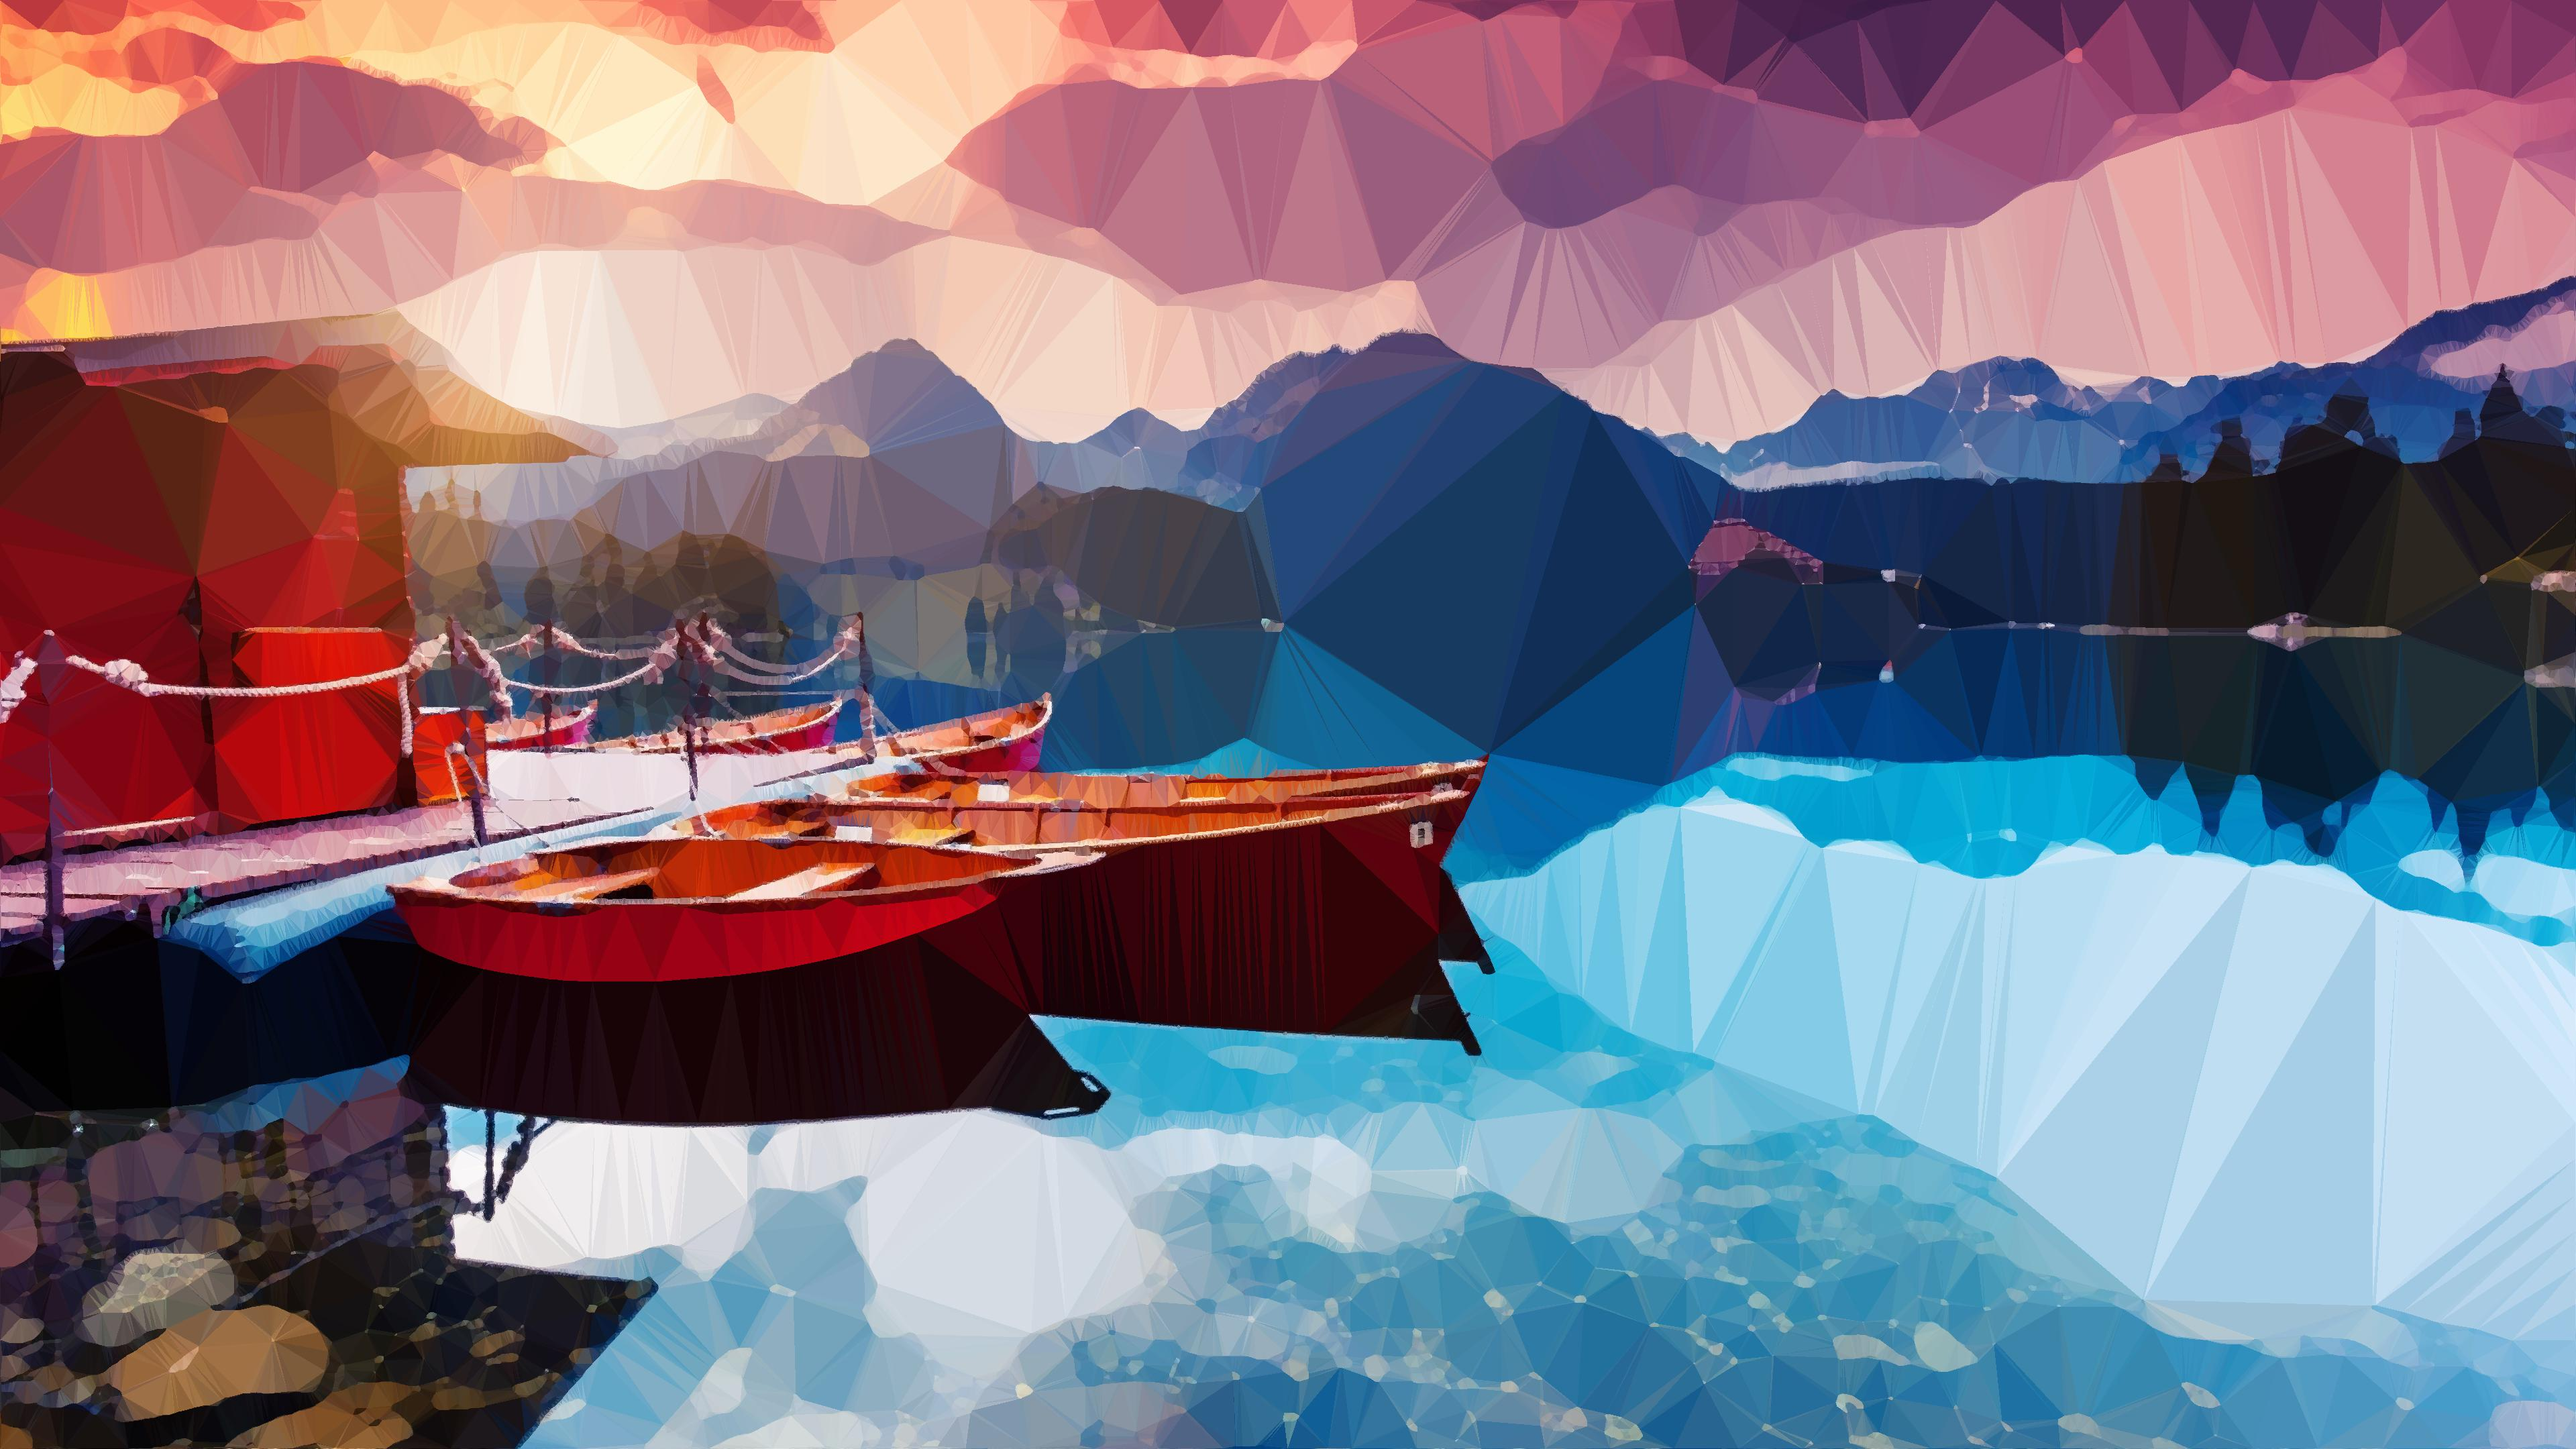
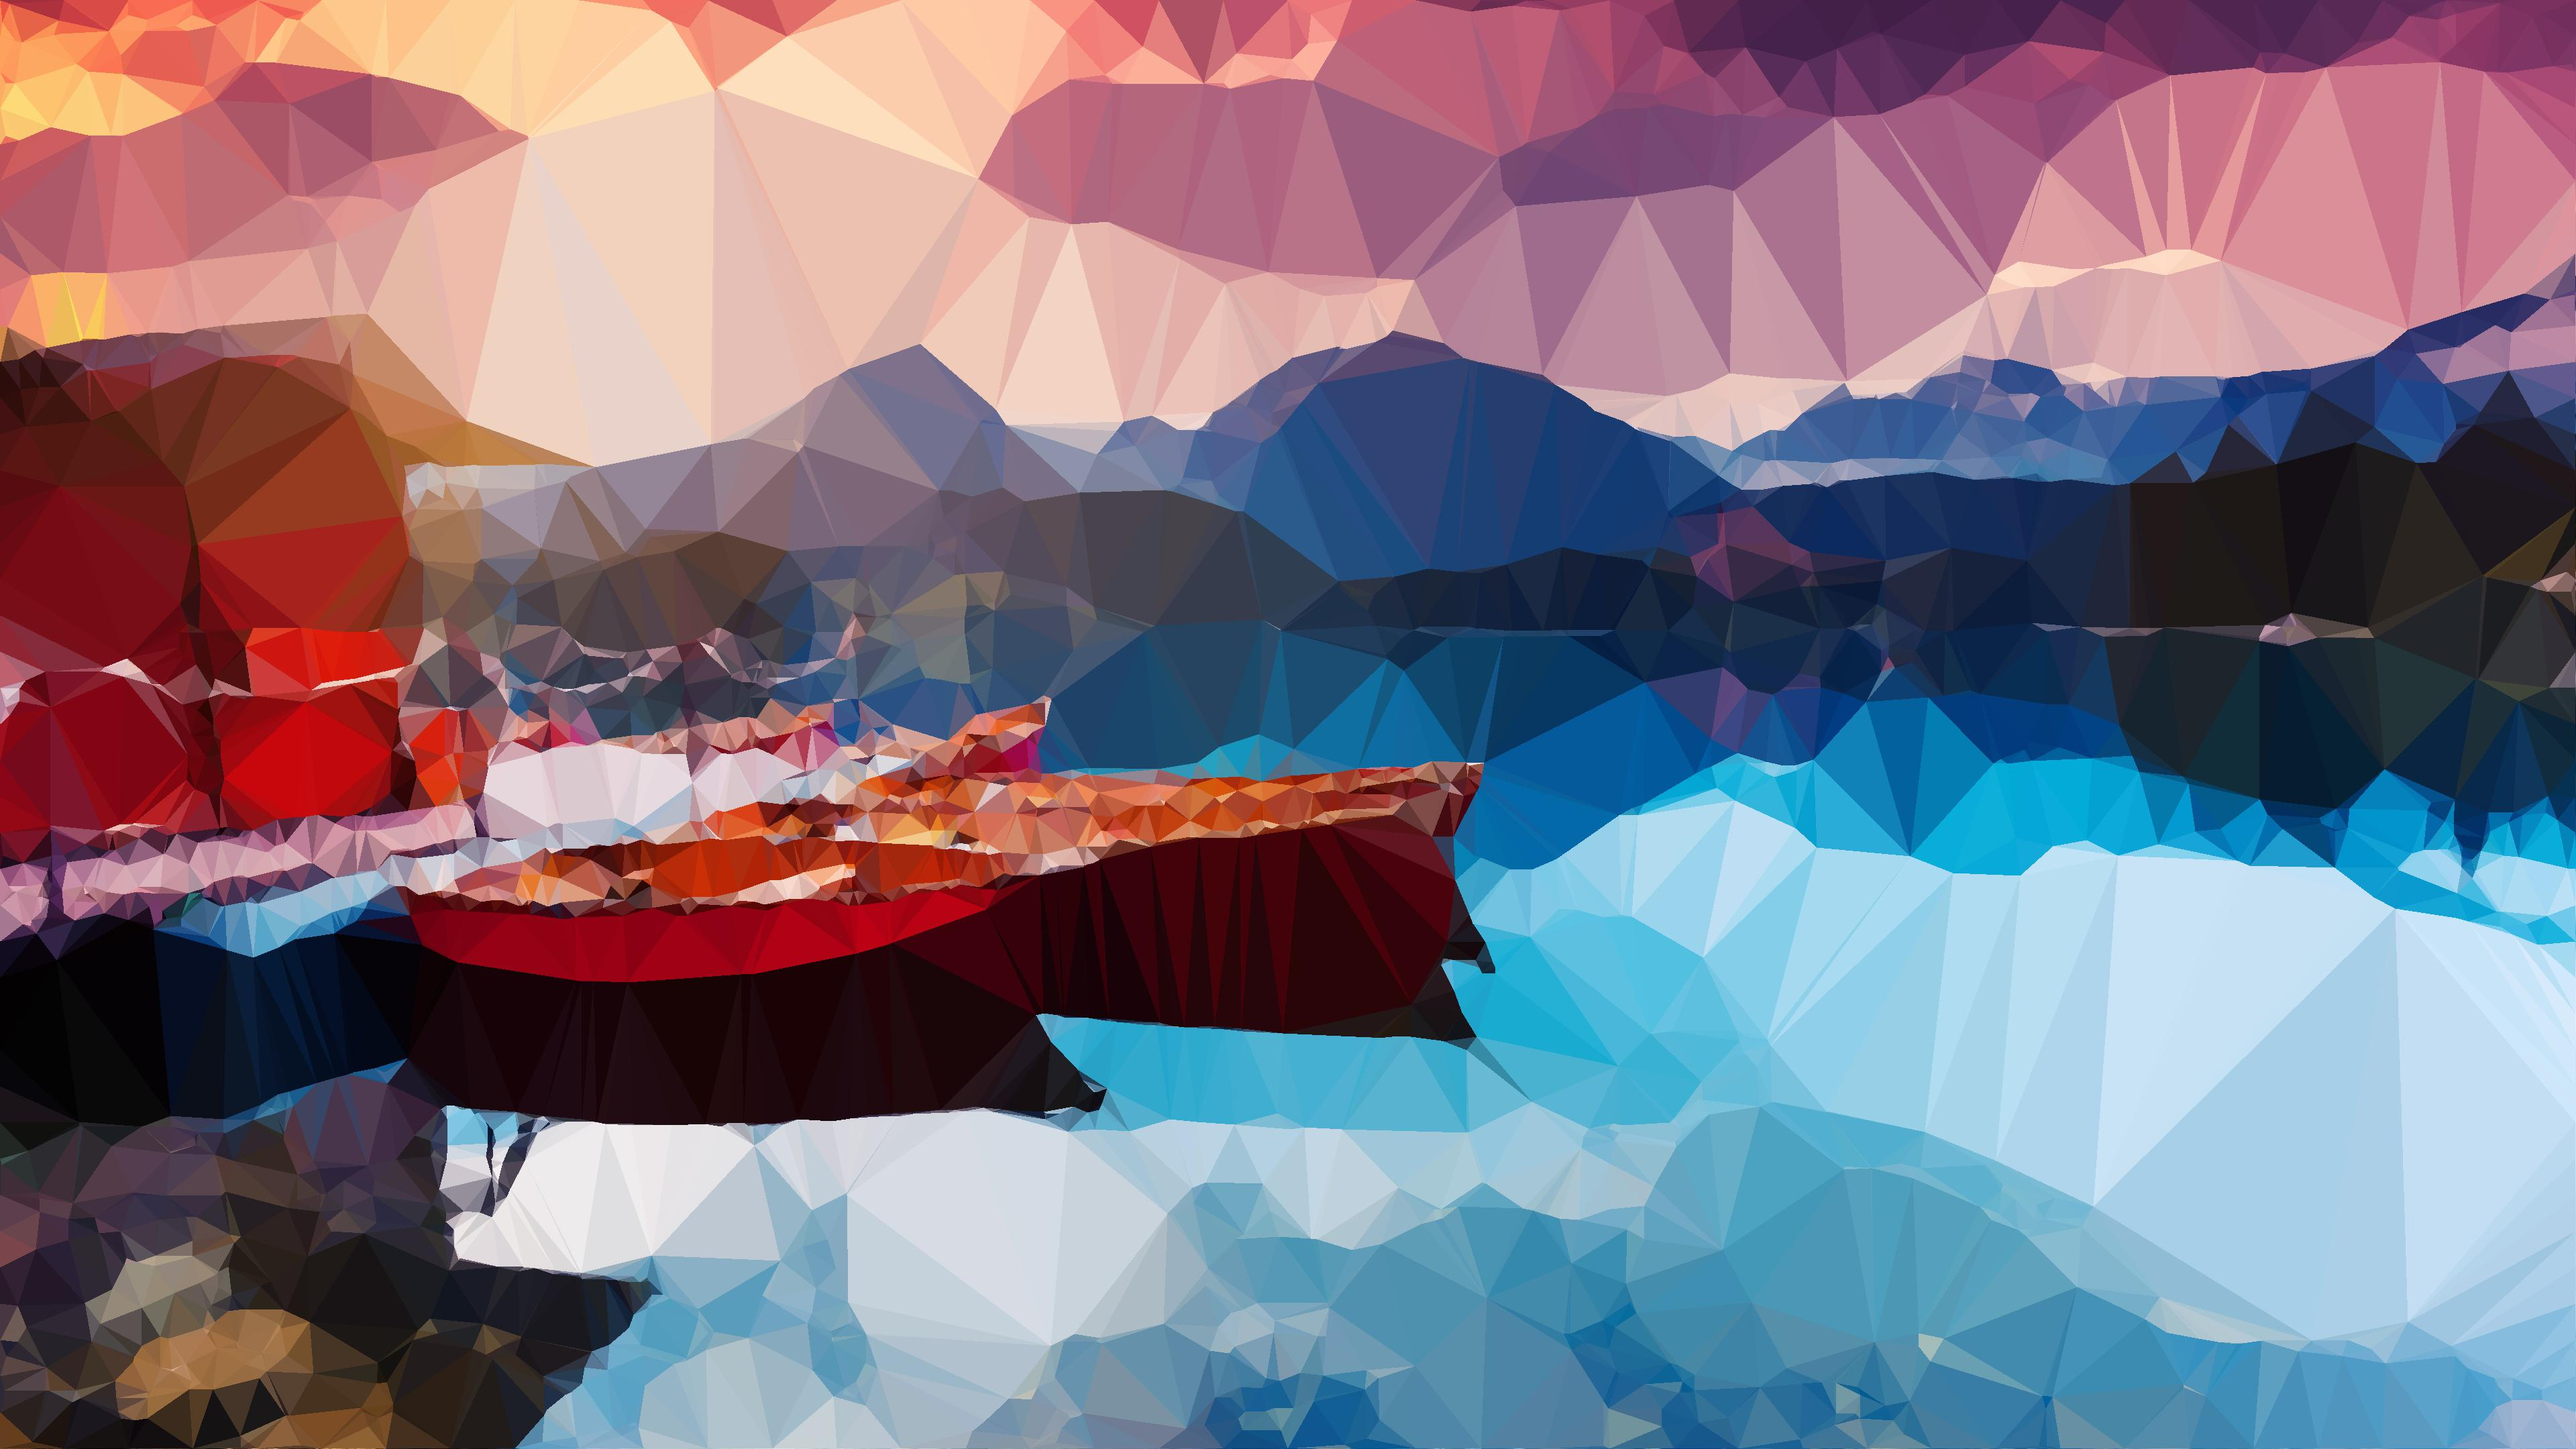
Move code for bowyer-watson into a dev branch

diff --git a/polygonize.py b/polygonize.py
@@ -66,28 +66,12 @@ def cluster_img(img: np.ndarray, clusters: int) -> np.ndarray:
     return res_image
 
 
-def BowyerWatson(oldTriangulation, points, newpoints):
-    triangulation = oldTriangulation.copy()
-    superpoints = np.array([[0, 0], [1000, 0], [0, 1000]])
-    points = np.concat(points, newpoints, superpoints)
-    triangulation.append([-1, -2, -3])
-    for i in range(points.shape[0]):
-        point = points[i]
-        badTriangles = []
-        for triangle in triangulation:
-            pass
-    return triangulation
-
-
 def triangulate(original_img: np.ndarray, clustered_img: np.ndarray, vertices: float) -> Tuple[np.ndarray, np.ndarray]:
     """Performs Delaunay triangulation on a segmented (clustered) image."""
     # Edge detection on res
     res = filters.sobel(rgb2gray(clustered_img))
     res[res > 0.1] = 1
     res[res <= 0.1] = 0
-
-    plt.imshow(res, cmap='gray')
-    plt.show()
 
     # Select a random subset of edge points
     j, i = np.nonzero(res)
